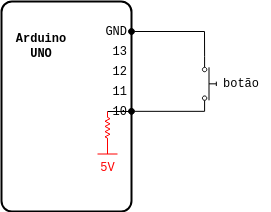
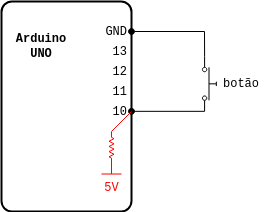
Alteracoes em project-03
- Atualiza README.md e atualiza imagem arduino-ligacoes.png.

Changed region(s): [[0.3542, 0.5094, 0.4723, 0.9057]]

diff --git a/project-03/README.md b/project-03/README.md
@@ -1,10 +1,8 @@
 # Lendo o comando de um botão e ligando um Led com os registradores do ATmega328p :bulb:
 
-README em construção :building_construction: ...
-
 Aqui utilizaremos um Arduino Uno Rev.3.
 
-Primeiro, listando as documentações aqui utilizadas:
+Primeiro, listando as documentações utilizadas:
 1. Arduino Uno Rev. 3: :link: https://docs.arduino.cc/hardware/uno-rev3;
 1. Biblioteca `avr/io.h`: :link: https://github.com/avrdudes/avr-libc/blob/main/include/avr/io.h;
 1. Biblioteca `avr/portpins.h`: :link: https://github.com/avrdudes/avr-libc/blob/main/include/avr/portpins.h;
@@ -14,19 +12,24 @@ Primeiro, listando as documentações aqui utilizadas:
  
 O pino que vamos utilizar é o D13, pois já possui conexão a um LED na própria placa do Arduino, e para ler o botão o D10. A seguir é mostrado um esboço das ligações entre os componentes:
 
-![ligação dos componentes](arduino-ligacoes.png) **OBS.:** na prática só ligamos mesmo o botão entre os pinos 10 e GND no Arduino. O que está destacado em vermelho é o resistor de *pull-up* que existe dentro do ATmega328p e iremos habilitá-lo via código. O valor desse resistor está na faixa entre 20 kΩ - 50 kΩ, conforme descreve a tabela da página 259 do *datasheet*
+![ligação dos componentes](arduino-ligacoes.png) **OBS.:** na prática só ligamos mesmo o botão entre os pinos 10 e GND no Arduino. O que está destacado em vermelho é apenas uma estrutura interna do ATmega328p que fornece um resistor de *pull-up* e iremos habilitá-lo via código. O valor desse resistor está na faixa entre 20 kΩ - 50 kΩ, conforme descreve a tabela da página 259 do *datasheet*.
 
-A referência para os registradores está na imagem a seguir:
+> É de extrema importância termos um resistor de *pull-up*, pois ele garante um estado lógico conhecido na entrada digital do Arduino:
+> - Botão não pressionado -> leitura no pino 10 é `5 V`;
+> - Botão pressionado -> leitura no pino 10 é `0 V`.
+>
+> essas considerações são importantes para entendermos a lógica de leitura do botão no código.
+
+Em se tratando do registradores esta imagem nos ajuda com o mapeamento:
 
 ![arduino pinout](https://docs.arduino.cc/static/2b141eb1cfe6f465a949c203e4af1b5f/A000066-pinout.png)  
-perceba que o D13 está associado ao registrador PB5/PORTB5, e o D10 ao PB2/PORTB2  
-**OBS.:** PB5 e PORTB5 se referem ao mesmo registrador no *datasheet* do ATmega328p. O mesmo é válido para PB2 e PORTB2.
+perceba que o D13 está associado ao registrador PB5/PORTB5, e o D10 ao PB2/PORTB2. **OBS.:** PB5 e PORTB5 se referem ao mesmo registrador no *datasheet* do ATmega328p. O mesmo é válido para PB2 e PORTB2.
 
 Na página 72 do *datasheet* do ATmega328p vemos no detalhe os registradores em que estamos interessados:  
-![registradores do portB](registradores.png)
-- PORTB: é o registrador onde controlaremos o sinal ON/OFF do pino do LED quando no caso do bit PORTB5/PB5. Esse mesmo registrador serviará para configurar um resistor de *pull-up* interno do Arduino para o bit PORTB2/PB2;
+![registradores do portB](./registradores.png)
+- PORTB: é o registrador onde controlaremos o sinal ON/OFF do pino do LED no caso do bit PORTB5/PB5. Esse mesmo registrador servirá para configurar o resistor de *pull-up* interno do Arduino para o bit PORTB2/PB2;
 - DDRB: é o registrador que determina se determinado pino é de leitura ou escrita. Precisamos configurar os bits DDRB5/PB5 e DDRB2/PB2;
-- PINB: é o registrador que utilizamos para ler dados das portas digitais. No nosso caso queremos ler do PINB2/PB2.
+- PINB: é o registrador que utilizamos para ler dados das portas digitais. No nosso caso queremos ler do bit PINB2/PB2.
 
 Então vamos ao código :man_technologist::
 
@@ -75,10 +78,25 @@ Nesse código utilizamos muitas operações chamadas de *bitwise*, como `|`, `<<
 
 Explicando as partes mais importantes do código:
 - `#define LED_PIN PB5` -> definindo uma macro para o PB5 para melhorar a legibilidade do código. Dá para trocar PB5 só por 5, pois no final a gente só quer a posição do bit. Na verdade PB5 já está definido como 5 na biblioteca `avr/portpins.h`, que é internamente incluída pela `avr/io.h`;
-- `SET_PIN_AS_OUTPUT(DDRB, LED_PIN); // -> DDRB |= 1 << LED_PIN;` -> ou `DDRB = DDRB | 1 << LED_PIN` define o bit 5 como saída. No final essa operação nos dá em binário o valor `00100000` para o DDRB, isso está definindo o bit 5 do PORTB como saída;
-- `SET_PIN_ON(PORTB, LED_PIN); // -> PORTB |= 1 << LED_PIN;` -> escreve nível lógico alto no bit 5 do PORTB, ou seja, liga o LED;
-- `_delay_ms(500);` -> para a execução por 500 milissegundos. Essa função está definida na biblioteca `util/delay.h`;
-- `SET_PIN_OFF(PORTB, LED_PIN); // -> PORTB &= ~(1 << LED_PIN);` -> escreve nível lógico baixo no bit 5 do PORTB, ou seja, desliga o LED.
+- `#define BUTTON_PIN PB2` -> definindo uma macro para o PB2. A explicação acima se aplica aqui também;
+- `SET_ONE_ON_BIT(DDRB, LED_PIN);` -> ou `DDRB = DDRB | 1 << LED_PIN` define o bit 5 como saída. No final essa operação nos dá em binário o valor `00100000` para o DDRB, isso está definindo o bit 5 do PORTB como saída;
+- `SET_ZERO_ON_BIT(DDRB, BUTTON_PIN);` -> ou `DDRB = DDRB & ~(1 << BUTTON_PIN)` define o bit 2 como entrada. No final essa operação nos dá em binário o valor `00100000` para o DDRB, isso está definindo o bit 2 do PORTB como saída. Na prática não precisávamos configuar esse bit porque é zero por padrão. **OBS.:**, não se confunda com esse `1` que apareceu aí, ele foi configurado na operação anterior;
+- `SET_ONE_ON_BIT(PORTB, BUTTON_PIN);` -> ou `PORTB = PORTB | 1 << BUTTON_PIN` habilita o resistor de *pull-up* no bit 2. No final essa operação nos dá em binário o valor `00000100` para o PORTB;
+- `SET_ONE_ON_BIT(PORTB, LED_PIN); // -> PORTB |= 1 << LED_PIN;` -> escreve nível lógico alto no bit 5 do PORTB, ou seja, liga o LED;
+- `SET_ZERO_ON_BIT(PORTB, LED_PIN); // -> PORTB &= ~(1 << LED_PIN);` -> escreve nível lógico baixo no bit 5 do PORTB, ou seja, desliga o LED.
+- `_delay_ms(100);` -> para a execução por 100 milissegundos. Essa função está definida na biblioteca `util/delay.h`;
+- Agora vamos à lógica da função `isButtonPressed()` e lembrando da explicação do resistor de *pull-up*. Os bits que não importa pra nós será representado por `x`:
+  ```
+  uint8_t isButtonPressed() {
+    return !(PINB & (1 << BUTTON_PIN));
+  }
+  ```
+  - `1 << BUTTON_PIN` equivale a `1 << PB2` que equivale a `1 << 2` = `00000100` em binário;
+  - se `PINB` = `xxxxx1xx`, significa botão não pressionado:
+    - `!(xxxxx1xx & 00000100)` = `!(00000100)` = `!(true)`, porque em C qualquer valor diferente de zero é true. Resultado final = `false` por causa da negação `!`;
+  - se `PINB` = `xxxxx0xx`, significa botão pressionado:
+    - `!(xxxxx0xx & 00000100)` = `!(00000000)` = `!(false)`, porque em C zero é false. Resultado final = `true` por causa da negação `!`;
+
 
 # Contribuindo
 Encontrou algum erro ou possui alguma sugestão? Abra uma *issue* com as suas considerações.
